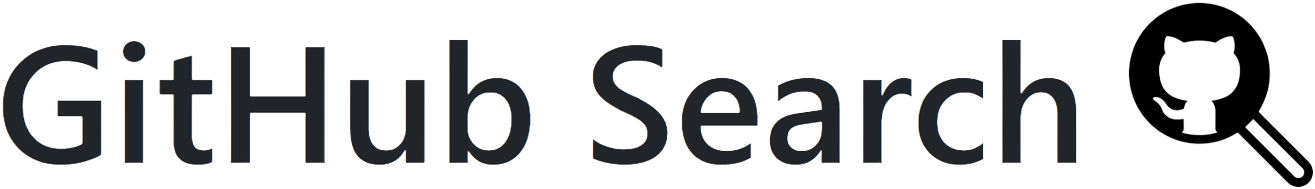
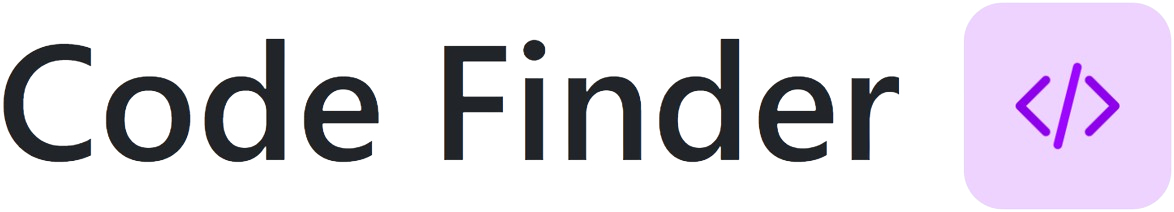
Change name to Code Finder

diff --git a/templates/index.html b/templates/index.html
@@ -13,20 +13,20 @@
         <!-- Meta Tags -->
         <meta charset="UTF-8" />
         <meta name="viewport" content="width=device-width, initial-scale=1.0" />
-        <meta name="description" content="GitHub Search! Making your GitHub search experience better!" />
-        <meta property="og:title" content="GitHub Search" />
-        <meta property="og:description" content="GitHub Search! Making your GitHub search experience better!" />
+        <meta name="description" content="Code Finder! Making your code search experience better!" />
+        <meta property="og:title" content="Code Finder" />
+        <meta property="og:description" content="Code Finder! Making your code search experience better!" />
         <meta property="og:image" content="static/assets/icon.png" />
         <!-- Favicon -->
         <link rel="icon" href="static/assets/icon.png" />
         <!-- Title -->
-        <title>GitHub Search</title>
+        <title>Code Finder</title>
     </head>
     <body>
         <div class="container">
             <div id="heading">
                 <!-- Title image -->
-                <img id="title-image" alt="Github Search Logo" src="static/assets/transparent title.png" />
+                <img id="title-image" alt="Code Finder Logo" src="static/assets/transparent title.png" />
             </div>
             <!-- Search form -->
             <form id="search-form" action="/search" method="GET" role="form" onsubmit="return validateForm()">

diff --git a/templates/repo_results.html b/templates/repo_results.html
@@ -1,14 +1,14 @@
 {% extends "results_template.html" %} 
 <!-- Title -->
 {% block title %}
-{{query}} - GitHub Search {% endblock %}
+{{query}} - Code Finder {% endblock %}
 {% block head %}
 <!-- Custom CSS -->
 <link rel="stylesheet" href="static/css/results_template.css" />
 <link rel="stylesheet" href="static/css/repo_results.css" />
-<meta name="description" content="GitHub Search results for: {{query}}" />
-<meta property="og:title" content="GitHub Search" />
-<meta property="og:description" content="GitHub Search! Making your GitHub search experience better!" />
+<meta name="description" content="Code Finder results for: {{query}}" />
+<meta property="og:title" content="Code Finder" />
+<meta property="og:description" content="Code Finder! Making your code search experience better!" />
 <meta property="og:image" content="static/assets/icon.png" />
 {% endblock %} {% block main %}
 <!-- Display search results -->

diff --git a/static/css/index.css b/static/css/index.css
@@ -11,7 +11,7 @@
 }
 
 #title-image {
-    height: 7vh;
+    height: 8vh;
     max-width: 100%;
 }
 
@@ -70,7 +70,7 @@
 
 @media screen and (max-width: 1700px) {
     #title-image {
-        height: 10vh;
+        height: 12vh;
     }
 
     #search-div {
